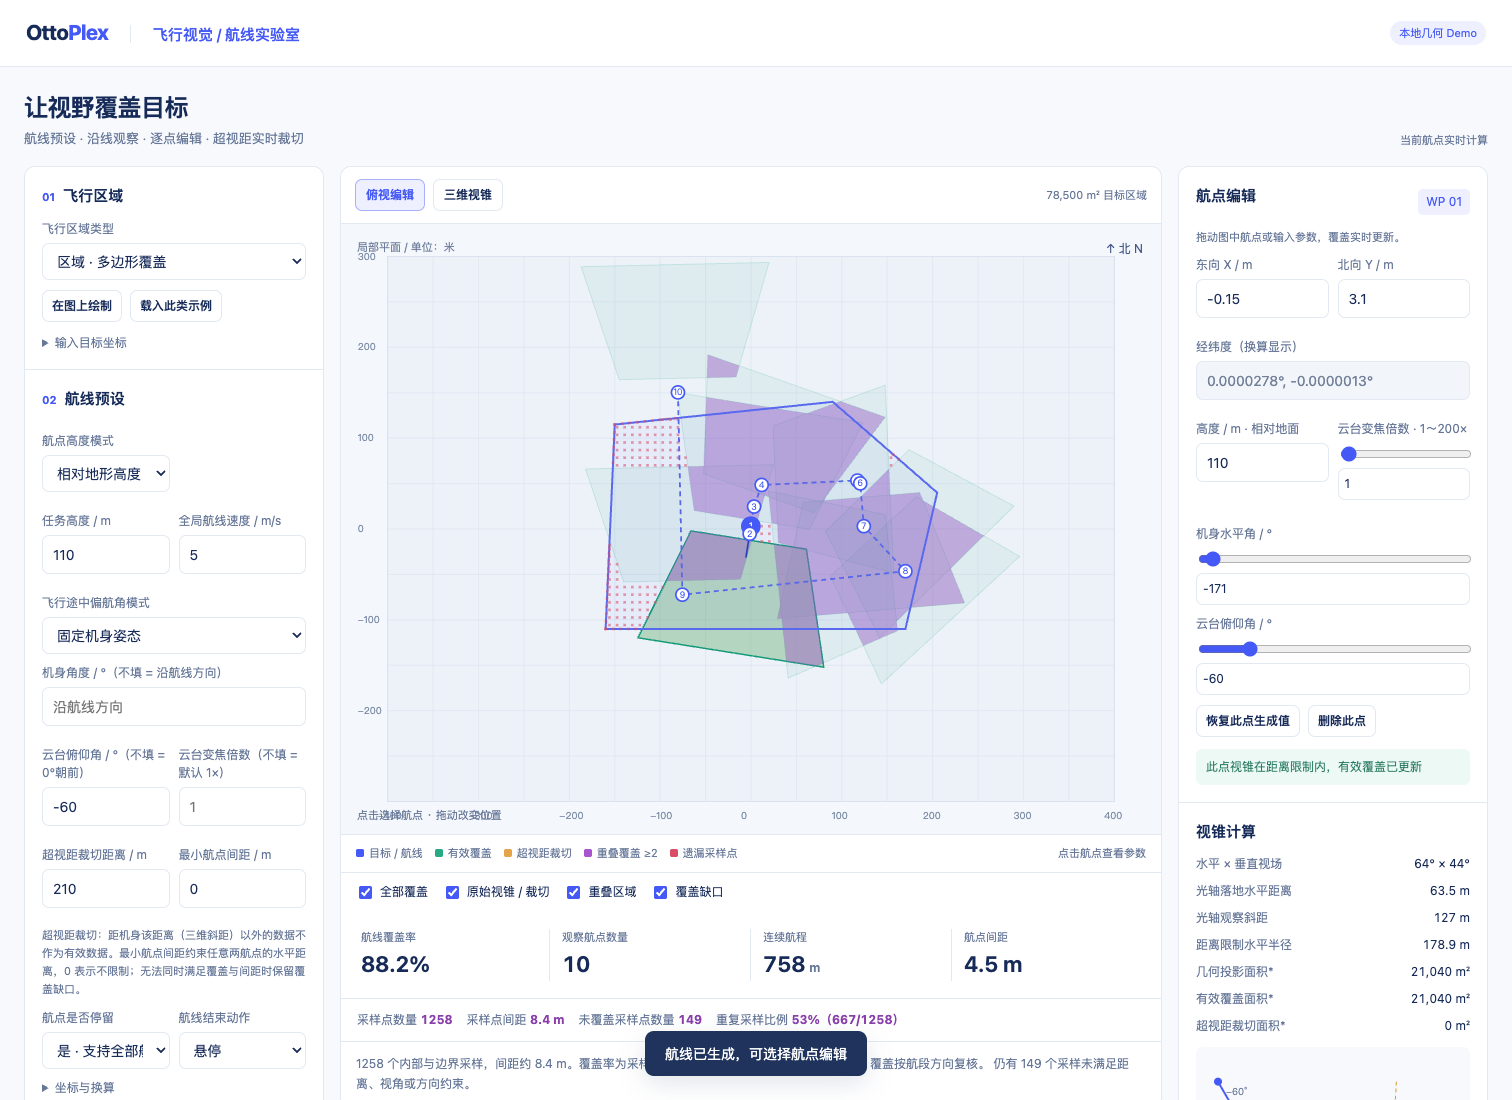
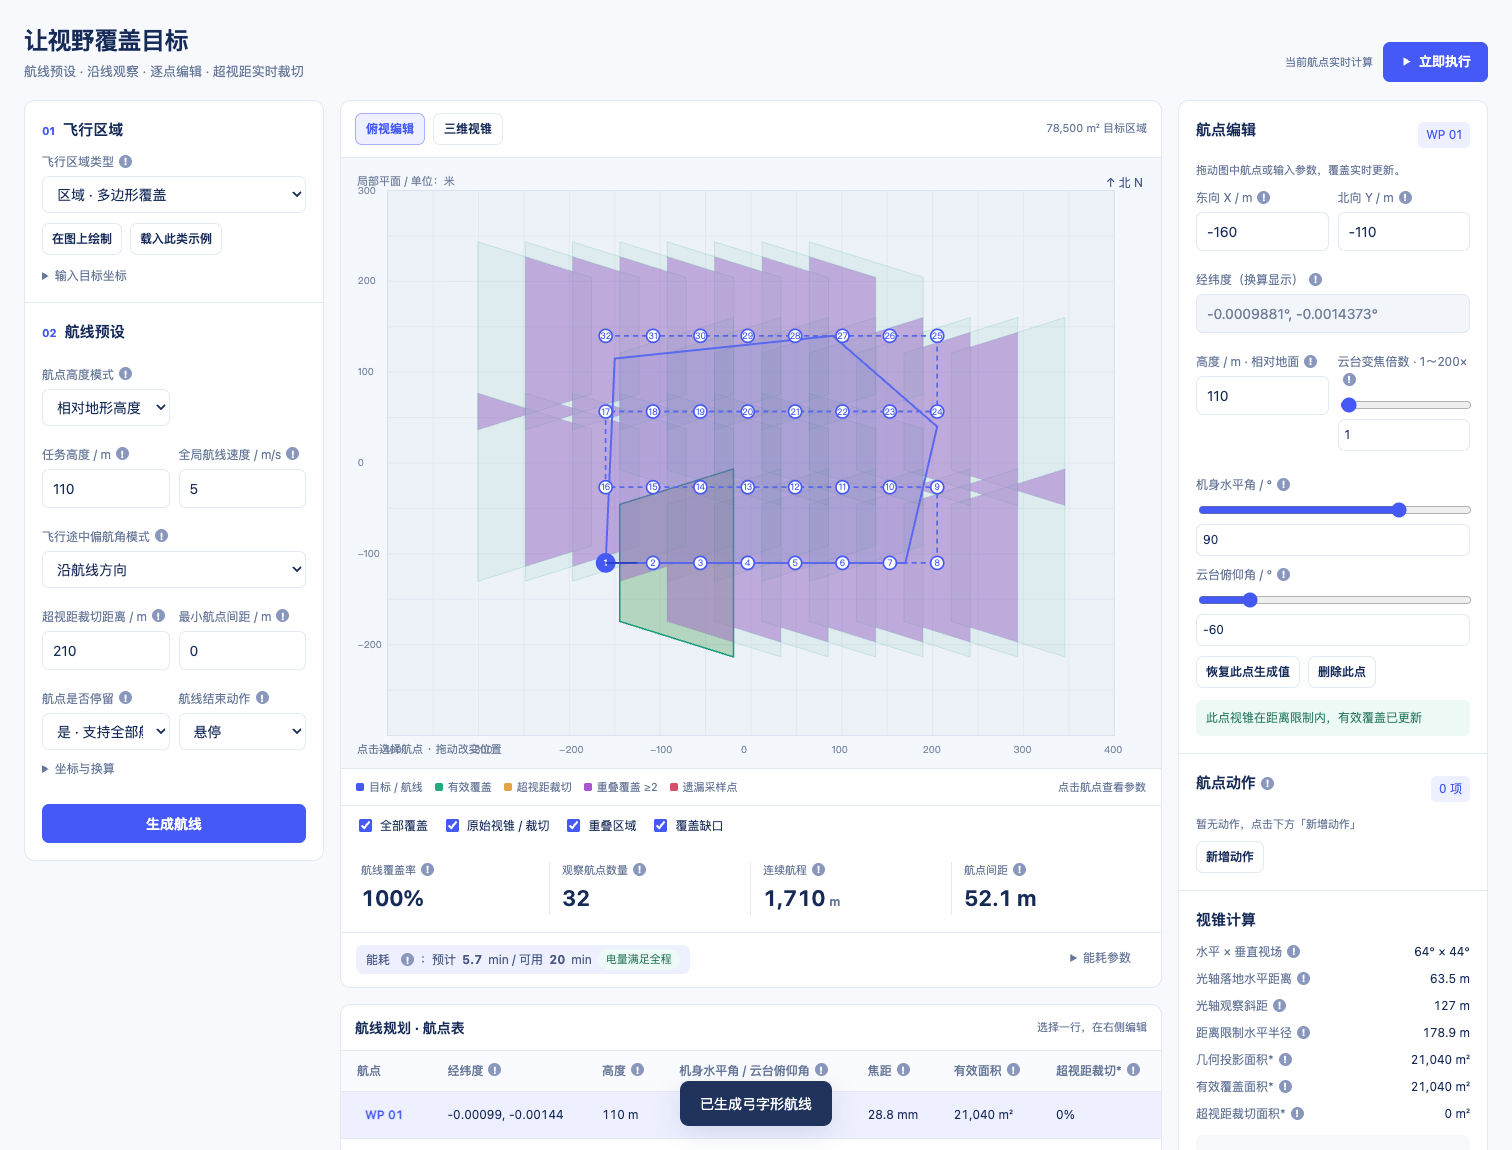
Area and slope use boustrophedon scan covering all samples; cylinder height 200m with taller spiral

diff --git a/page/index.html b/page/index.html
@@ -18,7 +18,7 @@
 <aside class="panel planner">
 <section class="section">
 <h2><span class="number">01</span>飞行区域</h2>
-<label class="field"><span>飞行区域类型<i class="fi" tabindex="0" data-tip="点：逐点观察；线：折线两侧缓冲带；区域：多边形覆盖；斜面：多边形＋坡度坡向，视锥按坡面计算，面积为坡面真实面积；几何体：底面多边形按顶面高度拉伸，含立面采样、未做遮挡剔除。">!</i></span>
+<label class="field"><span>飞行区域类型<i class="fi" tabindex="0" data-tip="点：逐点观察；线：折线两侧缓冲带，航点沿路线等距分布；区域：多边形覆盖，航点按弓字形（往复扫描）排列并补齐未覆盖采样；斜面：多边形＋坡度坡向，视锥按坡面计算，同样弓字形扫描；几何体：底面多边形解析为圆柱体（质心＋平均半径），按顶面高度拉伸，航点绕柱身螺旋上升，含顶面与柱面采样，未做遮挡剔除。">!</i></span>
 <select id="targetType">
 <option value="area">区域 · 多边形覆盖</option>
 <option value="line">路线 · 缓冲带覆盖</option>
@@ -46,8 +46,8 @@
 </label>
 </div>
 <label class="field" id="solidTopField" hidden>
-<span>几何体顶面高度 / m<i class="fi" tabindex="0" data-tip="仅几何体目标：底面多边形按此高度拉伸；采样包含顶面网格与立面多层高度点。">!</i></span>
-<input id="solidTop" type="number" min="5" max="200" step="1" value="30">
+<span>几何体顶面高度 / m<i class="fi" tabindex="0" data-tip="仅几何体目标：圆柱体高度（默认 200 m），底面按质心与平均半径解析为圆；采样含顶面圆盘与柱面多层环，航线绕柱螺旋上升。">!</i></span>
+<input id="solidTop" type="number" min="5" max="300" step="1" value="200">
 </label>
 <details style="margin-top:12px">
 <summary>输入目标坐标</summary>
@@ -397,7 +397,7 @@ function norm(a){return ((a+180)%360+360)%360-180;}
 function effYawTarget(c){return c.yawMode==='fixed'&&Number.isFinite(c.bodyYaw)?c.bodyYaw:null}
 function segYawOf(pts,i){const n=pts.length;if(n<2)return null;const a=i<n-1?pts[i]:pts[i-1],b=i<n-1?pts[i+1]:pts[i];return Math.atan2(b.x-a.x,b.y-a.y)/R}
 function computeSegYaw(){state.segYaw=state.points.map((_,i)=>segYawOf(state.points,i))}
-function directionOK(w,c,seg){if(c.type==='solid')return true;const t=effYawTarget(c)??seg;return t==null||Math.abs(norm(w.yaw-t))<.5}
+function directionOK(w,c,seg){if(c.type==='solid')return true;const t=effYawTarget(c)??(Number.isFinite(w.heading)?w.heading:seg);return t==null||Math.abs(norm(w.yaw-t))<.5}
 function toLatLon(x,y){const h=(state.config&&state.config.home)||{lat:0,lon:0},R0=6378137,k=180/Math.PI;return [h.lat+y/R0*k,h.lon+x/(R0*Math.cos(h.lat*R))*k]}
 function fmtLatLon(p){return p[0].toFixed(7)+'°, '+p[1].toFixed(7)+'°'}
 function spacingAllowed(w,points,spacing){return points.every(p=>Math.hypot(p.x-w.x,p.y-w.y)+1e-7>=spacing);}
@@ -419,12 +419,16 @@ for(let i=0;i<state.points.length;i++)for(let j=i+1;j<state.points.length;j++){
 function toast(s){$('toast').textContent=s;$('toast').hidden=false;clearTimeout(toast.timer);toast.timer=setTimeout(()=>$('toast').hidden=true,3500);}
 function validateTarget(points,type){const min=(type==='area'||type==='slope'||type==='solid')?3:type==='line'?2:1;if(points.length<min)return `此类型至少需要 ${min} 个坐标点`;if(points.length>100)return '目标最多支持 100 个输入顶点';if(points.some(p=>p.length!==2||p.some(v=>!Number.isFinite(v))||p[0]<B.xmin||p[0]>B.xmax||p[1]<B.ymin||p[1]>B.ymax))return '坐标必须为有限数值，且位于 x ±400 m、y ±300 m 内';if(points.some((p,i)=>i&&dist(p,points[i-1])<.01))return '相邻坐标不能重复';if(type==='area'||type==='slope'||type==='solid'){if(area(points)<1)return '区域面积太小或顶点顺序无效';const cross=(a,b,c)=>(b[0]-a[0])*(c[1]-a[1])-(b[1]-a[1])*(c[0]-a[0]);for(let i=0;i<points.length;i++)for(let j=i+1;j<points.length;j++){if(j===i+1||(i===0&&j===points.length-1))continue;let a=points[i],b=points[(i+1)%points.length],c=points[j],d=points[(j+1)%points.length];if(cross(a,b,c)*cross(a,b,d)<=0&&cross(c,d,a)*cross(c,d,b)<=0&&Math.max(a[0],b[0])>=Math.min(c[0],d[0])&&Math.max(c[0],d[0])>=Math.min(a[0],b[0])&&Math.max(a[1],b[1])>=Math.min(c[1],d[1])&&Math.max(c[1],d[1])>=Math.min(a[1],b[1]))return '多边形存在交叉或重叠边，请按边界顺序输入';}}return '';}
 function setTarget(p){let err=validateTarget(p,$('targetType').value);if(err){toast(err);return false;}state.target=p;$('coords').value=p.map(p=>p.map(v=>+v.toFixed(1)).join(', ')).join('\n');state.points=[];state.selected=-1;state.source=[];state.config=config();state.samples=samples(state.config);state.dirty=true;recalc();return true;}
-async function generate(){if(state.busy)return;if(!validConfig())return;const err=validateTarget(state.target,$('targetType').value);if(err){toast(err);return;}if(state.drawing){toast('请先完成或取消绘制');return;}state.busy=true;$('generate').disabled=true;$('generate').textContent='正在计算覆盖…';await new Promise(r=>setTimeout(r,30));try{const c=config();state.config=c;state.samples=samples(c);const ss=state.samples;let seq=[];if(c.type==='solid')seq=spiralWaypoints(c);else if(c.type==='line')seq=lineWaypoints(c);else seq=greedyWaypoints(c,ss);const fixedYaw=effYawTarget(c);state.points=seq.map((w,i)=>({x:+w.x.toFixed(2),y:+w.y.toFixed(2),yaw:+((w.yawLocked?w.yaw:(fixedYaw??segYawOf(seq,i)??0))).toFixed(1),pitch:+Math.max(-90,Math.min(90,w.pitch)).toFixed(1),zoom:w.zoom,height:+(w.height??c.height).toFixed(1),actions:[]}));state.source=state.points.map(w=>({...w,actions:[]}));state.selected=state.points.length?0:-1;state.dirty=false;recalc();toast(state.points.length?(c.type==='solid'?'已生成环绕圆柱的螺旋航线':c.type==='line'?'已沿路线分布航点':'航线已生成，可选择航点编辑'):'当前约束下未找到有效观察点');}catch(e){console.error(e);toast('规划失败：'+e.message);}finally{state.busy=false;$('generate').disabled=false;$('generate').textContent='生成航线';}}
+async function generate(){if(state.busy)return;if(!validConfig())return;const err=validateTarget(state.target,$('targetType').value);if(err){toast(err);return;}if(state.drawing){toast('请先完成或取消绘制');return;}state.busy=true;$('generate').disabled=true;$('generate').textContent='正在计算覆盖…';await new Promise(r=>setTimeout(r,30));try{const c=config();state.config=c;state.samples=samples(c);const ss=state.samples;let seq=[];if(c.type==='solid')seq=spiralWaypoints(c);else if(c.type==='line')seq=lineWaypoints(c);else if(c.type==='area'||c.type==='slope'){const scan=scanWaypoints(c);seq=scan.length?scan.concat(fillGaps(c,scan)):greedyWaypoints(c,ss);}else seq=greedyWaypoints(c,ss);const fixedYaw=effYawTarget(c);state.points=seq.map((w,i)=>({x:+w.x.toFixed(2),y:+w.y.toFixed(2),yaw:+((w.yawLocked?w.yaw:(fixedYaw??segYawOf(seq,i)??0))).toFixed(1),heading:Number.isFinite(w.heading)?w.heading:null,pitch:+Math.max(-90,Math.min(90,w.pitch)).toFixed(1),zoom:w.zoom,height:+(w.height??c.height).toFixed(1),actions:[]}));state.source=state.points.map(w=>({...w,actions:[]}));state.selected=state.points.length?0:-1;state.dirty=false;recalc();toast(state.points.length?(c.type==='solid'?'已生成环绕圆柱的螺旋航线':c.type==='line'?'已沿路线分布航点':(c.type==='area'||c.type==='slope')?'已生成弓字形航线':'航线已生成，可选择航点编辑'):'当前约束下未找到有效观察点');}catch(e){console.error(e);toast('规划失败：'+e.message);}finally{state.busy=false;$('generate').disabled=false;$('generate').textContent='生成航线';}}
+function scanWaypoints(c){const xs=state.target.map(p=>p[0]),ys=state.target.map(p=>p[1]);const x0=Math.max(B.xmin,Math.min(...xs)),x1=Math.min(B.xmax,Math.max(...xs)),y0=Math.max(B.ymin,Math.min(...ys)),y1=Math.min(B.ymax,Math.max(...ys));if(!(x1>x0)||!(y1>y0))return [];const cx=(x0+x1)/2,cy=(y0+y1)/2;const g=geometry({x:cx,y:cy,yaw:90,pitch:c.pitch,zoom:c.zoom,height:c.height},c);const poly=g.effective.length?g.effective:g.raw;if(!poly.length)return [];let minX=Infinity,maxX=-Infinity,minY=Infinity,maxY=-Infinity;for(const p of poly){minX=Math.min(minX,p[0]-cx);maxX=Math.max(maxX,p[0]-cx);minY=Math.min(minY,p[1]-cy);maxY=Math.max(maxY,p[1]-cy);}const cross=Math.max(5,(maxY-minY)*0.5),along=Math.max(5,(maxX-minX)*0.42);const gap=Math.max(0,+c.spacing||0)*1.01;const rows=Math.max(2,gap?Math.ceil((y1-y0)/Math.max(cross,gap))+1:Math.ceil((y1-y0)/cross)+1),cols=Math.max(2,gap?Math.ceil((x1-x0)/Math.max(along,gap))+1:Math.ceil((x1-x0)/along)+1);const dy=(y1-y0)/(rows-1),dx=(x1-x0)/(cols-1);if(gap&&(dx<gap||dy<gap))return [];const out=[];for(let r=0;r<rows;r++){const y=y0+dy*r;const ltr=r%2===0;for(let k=0;k<cols;k++){const x=ltr?x0+dx*k:x1-dx*k;out.push({x,y,yaw:ltr?90:-90,heading:ltr?90:-90,yawLocked:true,pitch:c.pitch,zoom:c.zoom,height:c.height});if(out.length>=80)return out;}}return out;}
+function fillGaps(c,base){const ss=state.samples,pts=base.map(w=>({x:w.x,y:w.y,yaw:w.yaw,pitch:w.pitch,zoom:w.zoom}));const covered=ss.map(p=>pts.some(w=>insideFov(p,w,c,basis(w,c))));const yawTarget=effYawTarget(c),angles=yawTarget!=null?[yawTarget]:[0,90,180,-90];const ff=fov({pitch:c.pitch,zoom:c.zoom},c);let offs=[];if(c.pitch<-.01)offs.push(c.height/Math.tan(-c.pitch*R));const low=c.pitch-ff[1]/2,hi=c.pitch+ff[1]/2;if(low<0)offs.push(c.height/Math.tan(-((low+Math.min(hi,-1))/2)*R));offs=offs.filter(x=>Number.isFinite(x)&&x>0);const out=[];const limit=()=>pts.length+out.length>=80;
+for(let pass=0;pass<3&&!limit();pass++){let added=0;const stride=Math.max(1,Math.floor(ss.length/500));for(let i=0;i<ss.length;i+=stride){if(covered[i])continue;let best=null,bgain=0;for(const yaw of angles)for(const off of offs){const w={x:ss[i][0]-Math.sin(yaw*R)*off,y:ss[i][1]-Math.cos(yaw*R)*off,yaw,pitch:c.pitch,zoom:c.zoom};if(w.x<B.xmin||w.x>B.xmax||w.y<B.ymin||w.y>B.ymax)continue;if(!spacingAllowed(w,pts.concat(out),c.spacing))continue;const b=basis(w,c);let gain=0;for(let k=0;k<ss.length;k++)if(!covered[k]&&insideFov(ss[k],w,c,b))gain++;if(gain>bgain){bgain=gain;best=w;}}if(best&&bgain>0){out.push(best);const b=basis(best,c);for(let k=0;k<ss.length;k++)if(insideFov(ss[k],best,c,b))covered[k]=true;added++;if(limit())break;}}if(!added)break;}
+return out;}
 function greedyWaypoints(c,ss){const candidates=[],yawTarget=effYawTarget(c),angles=yawTarget!=null?[yawTarget]:[0,90,180,-90];const w0={pitch:c.pitch,zoom:c.zoom};const ff=fov(w0,c);let offsets=[];if(c.pitch<-.01)offsets.push(c.height/Math.tan(-c.pitch*R));let low=c.pitch-ff[1]/2,hi=c.pitch+ff[1]/2;if(low<0){let middle=(low+Math.min(hi,-1))/2;offsets.push(c.height/Math.tan(-middle*R));}offsets=[...new Set(offsets.filter(x=>Number.isFinite(x)&&x>=0&&x<10000).map(x=>Math.round(x*10)/10))];for(let k=0;k<ss.length;k+=strideOf(ss)){const p=ss[k];for(const yaw of angles)for(const offset of offsets){let w={x:p[0]-Math.sin(yaw*R)*offset,y:p[1]-Math.cos(yaw*R)*offset,yaw,pitch:c.pitch,zoom:c.zoom};if(w.x<B.xmin||w.x>B.xmax||w.y<B.ymin||w.y>B.ymax)continue;w.x=+w.x.toFixed(2);w.y=+w.y.toFixed(2);const b=basis(w,c),hits=[];for(let i=0;i<ss.length;i++)if(insideFov(ss[i],w,c,b))hits.push(i);if(hits.length)candidates.push({w,hits});}}
 let covered=new Uint8Array(ss.length),remaining=ss.length,picked=[],last=[0,0];while(remaining&&picked.length<80){let best=null,bscore=0;for(const cand of candidates){if(!spacingAllowed(cand.w,picked,c.spacing))continue;let gain=0;for(const i of cand.hits)if(!covered[i])gain++;if(!gain)continue;let repeat=(cand.hits.length-gain)/cand.hits.length;let score=gain/(1+2*repeat+dist([cand.w.x,cand.w.y],last)/700);if(score>bscore){bscore=score;best=cand;}}if(!best)break;picked.push(best.w);for(const i of best.hits)if(!covered[i]){covered[i]=1;remaining--;}last=[best.w.x,best.w.y];}
 const ordered=[];last=[0,0];while(picked.length){let bi=0;for(let i=1;i<picked.length;i++)if(dist([picked[i].x,picked[i].y],last)<dist([picked[bi].x,picked[bi].y],last))bi=i;const w=picked.splice(bi,1)[0];ordered.push(w);last=[w.x,w.y];}return ordered;}
 function strideOf(ss){return Math.max(1,Math.ceil(ss.length/1100));}
-function cylinderOf(c){const pts=state.target;if(!pts.length)return {cx:0,cy:0,rad:50,top:30};let cx=0,cy=0;for(const p of pts){cx+=p[0];cy+=p[1];}cx/=pts.length;cy/=pts.length;let rad=0;for(const p of pts)rad+=Math.hypot(p[0]-cx,p[1]-cy);rad=Math.max(8,rad/pts.length);return {cx,cy,rad,top:Math.max(5,+c.solidTop||30)};}
+function cylinderOf(c){const pts=state.target;if(!pts.length)return {cx:0,cy:0,rad:50,top:30};let cx=0,cy=0;for(const p of pts){cx+=p[0];cy+=p[1];}cx/=pts.length;cy/=pts.length;let rad=0;for(const p of pts)rad+=Math.hypot(p[0]-cx,p[1]-cy);rad=Math.max(8,rad/pts.length);return {cx,cy,rad,top:Math.max(5,+c.solidTop||200)};}
 function spiralWaypoints(c){const {cx,cy,rad,top}=cylinderOf(c);const ff=fov({zoom:c.zoom},c),vh=Math.tan(ff[1]*R/2);const d=Math.max(rad+25,Math.min(c.distance*0.9,rad+c.distance*0.55));const band=Math.max(8,2*(d-rad)*vh*0.85);const levels=Math.max(2,Math.min(9,Math.ceil(top/band)));const per=8,out=[];for(let L=0;L<levels;L++){const h=(L+0.5)*top/levels;for(let k=0;k<per;k++){const ang=k*2*Math.PI/per+L*Math.PI/per;const x=cx+Math.cos(ang)*d,y=cy+Math.sin(ang)*d;if(x<B.xmin||x>B.xmax||y<B.ymin||y>B.ymax)continue;const yaw=Math.atan2(cx-x,cy-y)/R;const horiz=Math.max(5,Math.hypot(cx-x,cy-y)-rad);const camH=Math.max(12,h+18);const pitch=Math.atan2(h-camH,horiz)/R;out.push({x,y,yaw,yawLocked:true,pitch,zoom:c.zoom,height:camH});}}return out;}
 function lineWaypoints(c){const pts=state.target;if(pts.length<2)return [];const ff=fov({zoom:c.zoom},c),h=Number.isFinite(c.height)?c.height:110,segs=[];let total=0;for(let i=1;i<pts.length;i++){const L=dist(pts[i-1],pts[i]);segs.push({a:pts[i-1],b:pts[i],L,acc:total});total+=L;}if(!total)return [];const step=Math.max(c.spacing>0?c.spacing:0,Math.max(12,h*Math.tan(ff[1]*R/2)*0.95));const n=Math.max(2,Math.floor(total/step)+1),out=[];for(let k=0;k<n;k++){const s=(total*k)/(n-1);let seg=segs[segs.length-1];for(const g of segs){if(s<=g.acc+g.L+1e-9){seg=g;break;}}const t=seg.L?Math.max(0,Math.min(1,(s-seg.acc)/seg.L)):0;const x=seg.a[0]+(seg.b[0]-seg.a[0])*t,y=seg.a[1]+(seg.b[1]-seg.a[1])*t;out.push({x,y,yaw:Math.atan2(seg.b[0]-seg.a[0],seg.b[1]-seg.a[1])/R,yawLocked:false,pitch:c.pitch,zoom:c.zoom,height:h});}return out;}
 function syncControls(){$('fixedPoseFields').hidden=$('yawMode').value!=='fixed';$('groundElevationField').hidden=$('heightMode').value!=='amsl';$('widthField').hidden=$('targetType').value!=='line';$('slopeFields').hidden=$('targetType').value!=='slope';$('solidTopField').hidden=$('targetType').value!=='solid';}
@@ -503,7 +507,7 @@ document.addEventListener('focusout',hideTip);
 window.addEventListener('scroll',hideTip,true);
 window.addEventListener('resize',()=>{draw();drawProfile();});
 // Expose deterministic geometry for local validation; no network or device control.
-window.PlannerDemo={state,config,basis,fov,geometry,geometrySlope,insideFov,area,convexIntersection,spacingAllowed,validateTarget,samples,generate,setTarget,recalc,directionOK,effYawTarget,segYawOf,toLatLon,slopeAB,groundZfn,riskInfo,ACTION_DEFS,NO_STAY_OK,cylinderOf,spiralWaypoints,lineWaypoints,greedyWaypoints};
+window.PlannerDemo={state,config,basis,fov,geometry,geometrySlope,insideFov,area,convexIntersection,spacingAllowed,validateTarget,samples,generate,setTarget,recalc,directionOK,effYawTarget,segYawOf,toLatLon,slopeAB,groundZfn,riskInfo,ACTION_DEFS,NO_STAY_OK,cylinderOf,spiralWaypoints,lineWaypoints,greedyWaypoints,scanWaypoints,fillGaps};
 syncControls();setTarget(state.target);generate();
 </script>
 </body></html>

diff --git a/README.md b/README.md
@@ -43,7 +43,7 @@ Demo 是一套自带配色、画布布局和交互的独立页面（浅色主题
 | `locale/zh.json`、`locale/en.json` | 插件管理里显示的标题与说明 |
 | `icon.svg` | 侧边栏与详情页图标 |
 
-产品构成分三部分：**航线预设**（高度模式、全局速度、偏航角模式、可选机身姿态、停留、结束动作、超视距裁切距离、间距、起飞点经纬度）、**航线规划**（航线覆盖率、观察航点数量、连续航程、航点间距、采样指标、经纬度航点表、风险评估：禁飞区/低高度提醒与能耗断点续飞）、**航点编辑**（坐标/经纬度、逐点高度、机身水平角、云台俯仰角、变焦、视锥明细、航点动作：智拍/云台/挂载按停留门控）。飞行区域支持点、线、区域、斜面（坡度+坡向）、几何体（底面+顶面高度）。页面不含顶栏。
+产品构成分三部分：**航线预设**（高度模式、全局速度、偏航角模式、可选机身姿态、停留、结束动作、超视距裁切距离、间距、起飞点经纬度）、**航线规划**（航线覆盖率、观察航点数量、连续航程、航点间距、采样指标、经纬度航点表、风险评估：禁飞区/低高度提醒与能耗断点续飞）、**航点编辑**（坐标/经纬度、逐点高度、机身水平角、云台俯仰角、变焦、视锥明细、航点动作：智拍/云台/挂载按停留门控）。飞行区域支持点、线、区域、斜面（坡度+坡向）、几何体（圆柱体，默认高 200 m）；区域与斜面生成弓字形（往复扫描）航线并补齐未覆盖采样，路线沿折线等距布点，几何体绕柱螺旋上升。页面不含顶栏。
 
 本仓库包含运行所需的页面、插件代码与 `check-redesign.cjs` 验收脚本（`node check-redesign.cjs`）；Demo 早期的导出 JSON、任务文本解析等能力已按改版规格移除。
 
